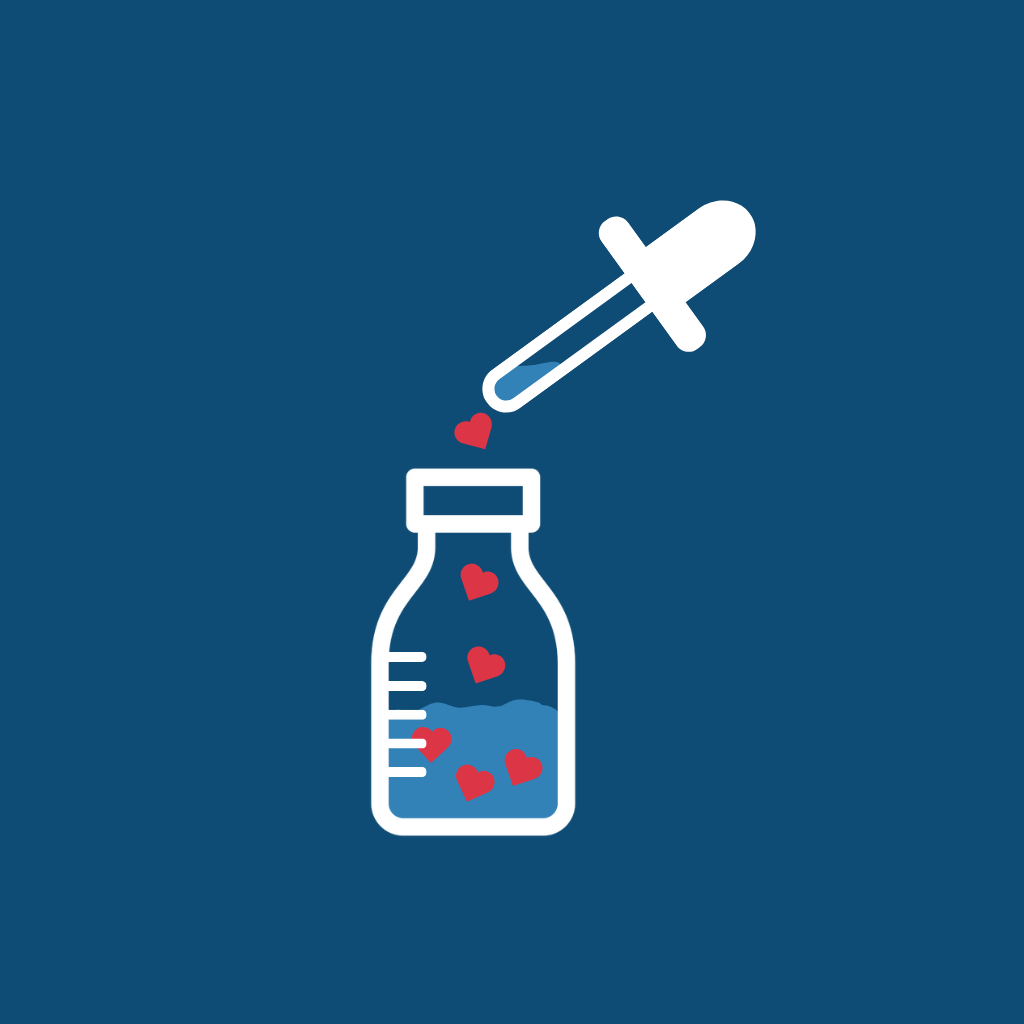
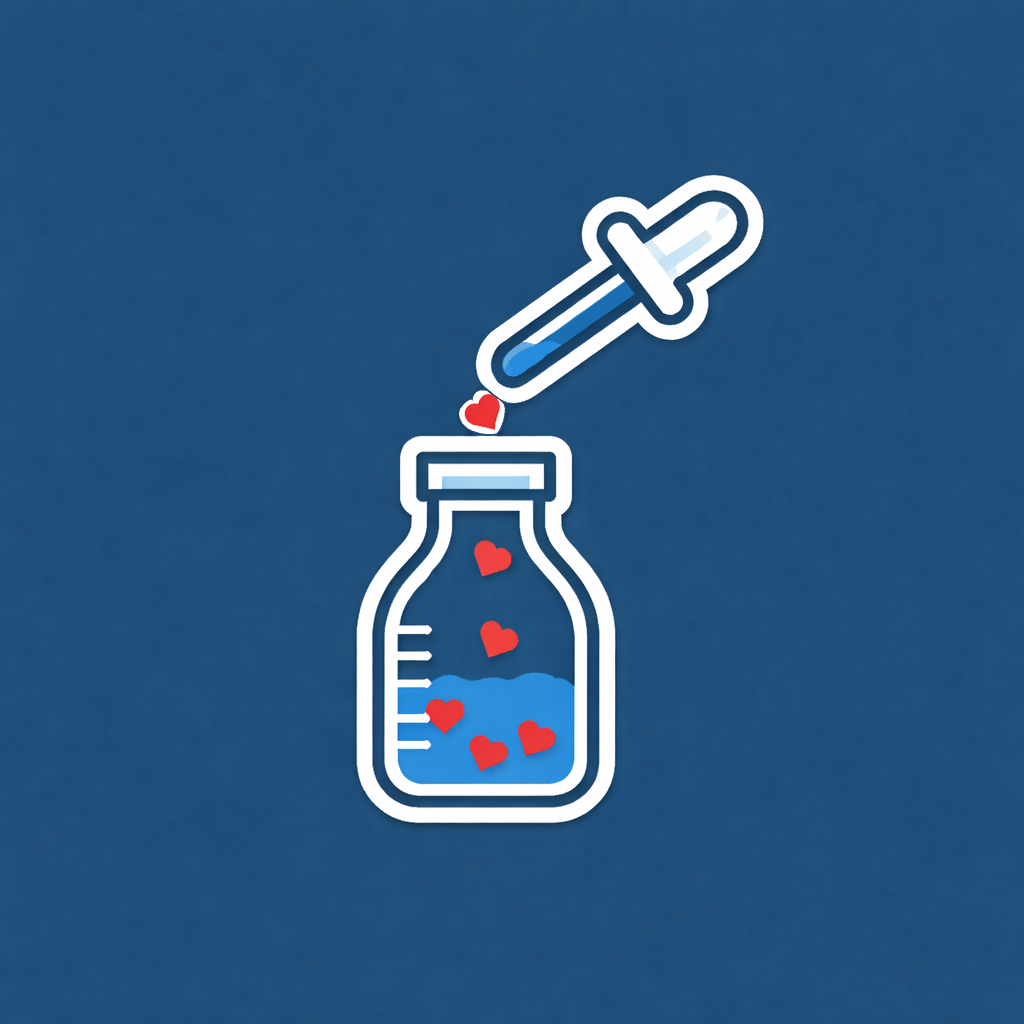
alteracoes no sistema de alarme

Changed region(s): [[0.3438, 0.1562, 0.75, 0.8438]]

diff --git a/app/addMedicine.js b/app/addMedicine.js
@@ -2,10 +2,8 @@ import React, { useState, useContext } from 'react';
 import { View, Text, TextInput, TouchableOpacity, StyleSheet, Platform, Image, Alert } from 'react-native';
 import DateTimePicker from '@react-native-community/datetimepicker';
 import { useRouter } from 'expo-router'; 
-
 import { MedicineContext } from '../context/MedicineContext'; 
 
-// Importar ícones
 import cancelIcon from '../assets/icons/cancel.png';
 import clockIcon from '../assets/icons/circular-alarm-clock-tool.png';
 
@@ -16,9 +14,8 @@ const AddMedicineScreen = () => {
   const [quantity, setQuantity] = useState('1');
   const [date, setDate] = useState(new Date());
   const [showPicker, setShowPicker] = useState(false);
-
-  // ✅ Novo estado para dias da semana
   const [selectedDays, setSelectedDays] = useState([]);
+
   const daysOfWeek = ["Dom", "Seg", "Ter", "Qua", "Qui", "Sex", "Sáb"];
 
   const toggleDay = (day) => {
@@ -29,31 +26,37 @@ const AddMedicineScreen = () => {
     }
   };
 
-  const handleAddTime = () => {
+  const handleAddTime = async () => {
     if (name.trim() === '' || quantity.trim() === '' || selectedDays.length === 0) {
-      Alert.alert('Atenção', 'Por favor, preencha todos os campos e selecione pelo menos 1 dia.');
+      Alert.alert('Atenção', 'Preencha o nome, dose e escolha ao menos um dia.');
       return;
     }
+
     const newMedicine = {
       name,
       quantity: parseInt(quantity, 10),
       time: date.toLocaleTimeString([], { hour: '2-digit', minute: '2-digit' }),
-      days: selectedDays, // ✅ dias da semana
+      days: selectedDays,
+      dateTime: date.toISOString(), // Essencial para o NotificationService ler
     };
-    addMedicine(newMedicine);
-    router.back(); 
+
+    try {
+      await addMedicine(newMedicine); // Isso chama o agendamento dentro do Contexto
+      router.back(); 
+    } catch (error) {
+      console.error(error);
+      Alert.alert("Erro", "Não foi possível agendar o alarme. Verifique as permissões.");
+    }
   };
 
   const onChangeTime = (event, selectedDate) => {
-    const currentDate = selectedDate || date;
     setShowPicker(Platform.OS === 'ios');
-    setDate(currentDate);
+    if (selectedDate) setDate(selectedDate);
   };
 
   return (
     <View style={styles.container}>
       <View style={styles.card}>
-        {/* Botão de fechar */}
         <TouchableOpacity style={styles.closeButton} onPress={() => router.back()}>
             <Image source={cancelIcon} style={styles.closeIcon}/>
         </TouchableOpacity>
@@ -61,66 +64,41 @@ const AddMedicineScreen = () => {
         <Text style={styles.label}>Nome do remédio:</Text>
         <TextInput style={styles.input} value={name} onChangeText={setName} placeholder="Ex: Paracetamol" />
 
-        <Text style={styles.label}>Quantidade do remédio:</Text>
-        <TextInput 
-          style={styles.input} 
-          value={quantity} 
-          onChangeText={setQuantity}
-          keyboardType="numeric"
-        />
+        <Text style={styles.label}>Quantidade (dose):</Text>
+        <TextInput style={styles.input} value={quantity} onChangeText={setQuantity} keyboardType="numeric" />
 
-        <Text style={styles.label}>Selecione o horário do remédio:</Text>
+        <Text style={styles.label}>Horário:</Text>
         <TouchableOpacity style={styles.timePickerButton} onPress={() => setShowPicker(true)}>
-          <Text style={styles.timeText}>
-            {date.toLocaleTimeString([], { hour: '2-digit', minute: '2-digit' })}
-          </Text>
+          <Text style={styles.timeText}>{date.toLocaleTimeString([], { hour: '2-digit', minute: '2-digit' })}</Text>
           <Image source={clockIcon} style={styles.clockIcon} />
         </TouchableOpacity>
         
         {showPicker && (
-          <DateTimePicker
-            testID="dateTimePicker"
-            value={date}
-            mode="time"
-            is24Hour={true}
-            display="default"
-            onChange={onChangeTime}
-          />
+          <DateTimePicker value={date} mode="time" is24Hour={true} display="default" onChange={onChangeTime} />
         )}
 
-        {/* ✅ Campo novo - Dias da semana */}
         <Text style={styles.label}>Dias da semana:</Text>
         <View style={styles.daysContainer}>
           {daysOfWeek.map((day) => (
             <TouchableOpacity
               key={day}
-              style={[
-                styles.dayButton,
-                selectedDays.includes(day) && styles.dayButtonSelected
-              ]}
+              style={[styles.dayButton, selectedDays.includes(day) && styles.dayButtonSelected]}
               onPress={() => toggleDay(day)}
             >
-              <Text
-                style={[
-                  styles.dayButtonText,
-                  selectedDays.includes(day) && styles.dayButtonTextSelected
-                ]}
-              >
-                {day}
-              </Text>
+              <Text style={styles.dayButtonText}>{day}</Text>
             </TouchableOpacity>
           ))}
         </View>
 
         <TouchableOpacity style={styles.addButton} onPress={handleAddTime}>
-          <Text style={styles.addButtonText}>Adicionar</Text>
+          <Text style={styles.addButtonText}>Salvar e Agendar Alarme</Text>
         </TouchableOpacity>
       </View>
     </View>
   );
 };
 
-// Estilos
+// Estilos mantidos originais
 const styles = StyleSheet.create({
     container: {
         flex: 1,

diff --git a/app/_layout.js b/app/_layout.js
@@ -1,15 +1,24 @@
 import { Tabs } from 'expo-router';
-import { Image, StyleSheet, View, Text } from 'react-native'; // Adicionado View e Text
+import { Image, StyleSheet } from 'react-native';
+import * as Notifications from 'expo-notifications'; // IMPORTAR ISSO
 import { MedicineProvider } from '../context/MedicineContext';
-import { PatientProvider } from '../context/PatientContext'; // MUDANÇA: Importar PatientProvider
+import { PatientProvider } from '../context/PatientContext';
 
 import infoIcon from '../assets/icons/house.png';
 import menuIcon from '../assets/icons/menu.png';
 import userIcon from '../assets/icons/profile-user.png';
 
+// CONFIGURAÇÃO ESSENCIAL: Define como a notificação aparece com o app aberto
+Notifications.setNotificationHandler({
+  handleNotification: async () => ({
+    shouldShowAlert: true,
+    shouldPlaySound: true,
+    shouldSetBadge: false,
+  }),
+});
+
 export default function AppLayout() {
   return (
-    // MUDANÇA: Envolver tudo com PatientProvider
     <PatientProvider> 
       <MedicineProvider>
         <Tabs
@@ -35,23 +44,18 @@ export default function AppLayout() {
             }}
           />
           <Tabs.Screen
-            name="usuario" // MUDANÇA: Agora o `usuario` vai ter sua própria tela com os botões
+            name="usuario"
             options={{
               title: 'Usuário',
               tabBarIcon: ({ color }) => <Image source={userIcon} style={[styles.tabIcon, { tintColor: color }]} />,
             }}
           />
-          {/* Telas que abrem como modal não aparecem na tab bar */}
           <Tabs.Screen name="addMedicine" options={{ href: null, presentation: 'modal' }} />
           <Tabs.Screen name="removeMedicine" options={{ href: null, presentation: 'modal' }} />
-
-          {/* MUDANÇA: Novas rotas para as telas do paciente */}
           <Tabs.Screen name="dadosPaciente" options={{ href: null, presentation: 'modal' }} />
           <Tabs.Screen name="editarDadosPaciente" options={{ href: null, presentation: 'modal' }} />
           <Tabs.Screen name="editarCuidados" options={{ href: null, presentation: 'modal' }} />
-          {/* MUDANÇA: Tela de Cuidadores ainda não criada, mas já reservamos a rota */}
           <Tabs.Screen name="cuidadores" options={{ href: null, presentation: 'modal' }} /> 
-
         </Tabs>
       </MedicineProvider>
     </PatientProvider>
@@ -62,13 +66,11 @@ const styles = StyleSheet.create({
   tabBar: {
     backgroundColor: '#0F4C75',
     borderTopWidth: 0,
-    height: 70,
-    paddingBottom: 10,
-    paddingTop: 5,
+    height: 60,
+    paddingBottom: 5,
   },
   tabIcon: {
-    width: 28,
-    height: 28,
-    resizeMode: 'contain',
+    width: 24,
+    height: 24,
   },
 });

diff --git a/context/MedicineContext.js b/context/MedicineContext.js
@@ -4,15 +4,15 @@ import {
   registerForPushNotificationsAsync, 
   scheduleMedicineNotification,
   cancelMedicineNotifications 
-} from '../app/services/notificationService'; // ✅ CORRETO
+} from '../services/notificationService';
 
 export const MedicineContext = createContext();
 
 export const MedicineProvider = ({ children }) => {
   const [medicines, setMedicines] = useState([]);
 
-  // Solicitar permissão ao iniciar o app
   useEffect(() => {
+    // Tenta registrar as permissões assim que o app abre
     registerForPushNotificationsAsync();
     loadMedicines();
   }, []);
@@ -37,24 +37,36 @@ export const MedicineProvider = ({ children }) => {
   };
 
   const addMedicine = async (medicine) => {
-    const newMedicine = { ...medicine, id: Date.now().toString() };
-    const updatedMedicines = [...medicines, newMedicine];
-    setMedicines(updatedMedicines);
-    await saveMedicines(updatedMedicines);
-    
-    // ✅ Agendar notificação para o novo remédio
-    await scheduleMedicineNotification(newMedicine);
+    try {
+      const newMedicine = { ...medicine, id: Date.now().toString() };
+      
+      // 1. Primeiro agendamos o alarme. Se isso falhar, ele vai para o catch.
+      await scheduleMedicineNotification(newMedicine);
+      
+      // 2. Só salvamos na lista se o agendamento não der erro crítico
+      const updatedMedicines = [...medicines, newMedicine];
+      setMedicines(updatedMedicines);
+      await saveMedicines(updatedMedicines);
+      
+      return true; // Sucesso!
+    } catch (error) {
+      console.error('Erro detalhado no agendamento:', error);
+      // Lança o erro para o addMedicine.js exibir o alerta
+      throw error; 
+    }
   };
 
   const removeMedicines = async (ids) => {
-    // ✅ Cancelar notificações dos remédios removidos
-    for (const id of ids) {
-      await cancelMedicineNotifications(id);
+    try {
+      for (const id of ids) {
+        await cancelMedicineNotifications(id);
+      }
+      const updatedMedicines = medicines.filter((med) => !ids.includes(med.id));
+      setMedicines(updatedMedicines);
+      await saveMedicines(updatedMedicines);
+    } catch (error) {
+      console.error('Erro ao remover:', error);
     }
-    
-    const updatedMedicines = medicines.filter((med) => !ids.includes(med.id));
-    setMedicines(updatedMedicines);
-    await saveMedicines(updatedMedicines);
   };
 
   return (

diff --git a/services/notificationService.js b/services/notificationService.js
@@ -1,0 +1,68 @@
+import * as Notifications from 'expo-notifications';
+import * as Device from 'expo-device';
+import { Platform } from 'react-native';
+
+export async function registerForPushNotificationsAsync() {
+  if (!Device.isDevice) return;
+
+  const { status: existingStatus } = await Notifications.getPermissionsAsync();
+  let finalStatus = existingStatus;
+  
+  if (existingStatus !== 'granted') {
+    const { status } = await Notifications.requestPermissionsAsync();
+    finalStatus = status;
+  }
+  
+  if (finalStatus !== 'granted') return;
+
+  if (Platform.OS === 'android') {
+    await Notifications.setNotificationChannelAsync('default', {
+      name: 'default',
+      importance: Notifications.AndroidImportance.MAX,
+      vibrationPattern: [0, 250, 250, 250],
+      lightColor: '#3282B8',
+    });
+  }
+}
+
+export async function scheduleMedicineNotification(medicine) {
+  // Mapeamento de dias para o padrão do Expo (1 = Domingo, 2 = Segunda...)
+  const dayMap = { 'Dom': 1, 'Seg': 2, 'Ter': 3, 'Qua': 4, 'Qui': 5, 'Sex': 6, 'Sáb': 7 };
+
+  // Pegamos a hora e minuto diretamente do objeto de data enviado
+  const triggerDate = new Date(medicine.dateTime);
+  const hours = triggerDate.getHours();
+  const minutes = triggerDate.getMinutes();
+
+  if (medicine.days && medicine.days.length > 0) {
+    for (const day of medicine.days) {
+      const weekday = dayMap[day];
+      if (weekday) {
+        await Notifications.scheduleNotificationAsync({
+          content: {
+            title: '💊 Hora do remédio!',
+            body: `Tomar ${medicine.quantity} dose(s) de ${medicine.name}`,
+            sound: true,
+            data: { medicineId: medicine.id },
+          },
+          trigger: {
+            weekday: weekday,
+            hour: hours,
+            minute: minutes,
+            repeats: true,
+          },
+        });
+      }
+    }
+  }
+  console.log(`✅ Alarmes agendados para ${medicine.name} às ${hours}:${minutes}`);
+}
+
+export async function cancelMedicineNotifications(medicineId) {
+  const scheduled = await Notifications.getAllScheduledNotificationsAsync();
+  for (const notif of scheduled) {
+    if (notif.content.data.medicineId === medicineId) {
+      await Notifications.cancelScheduledNotificationAsync(notif.identifier);
+    }
+  }
+}
